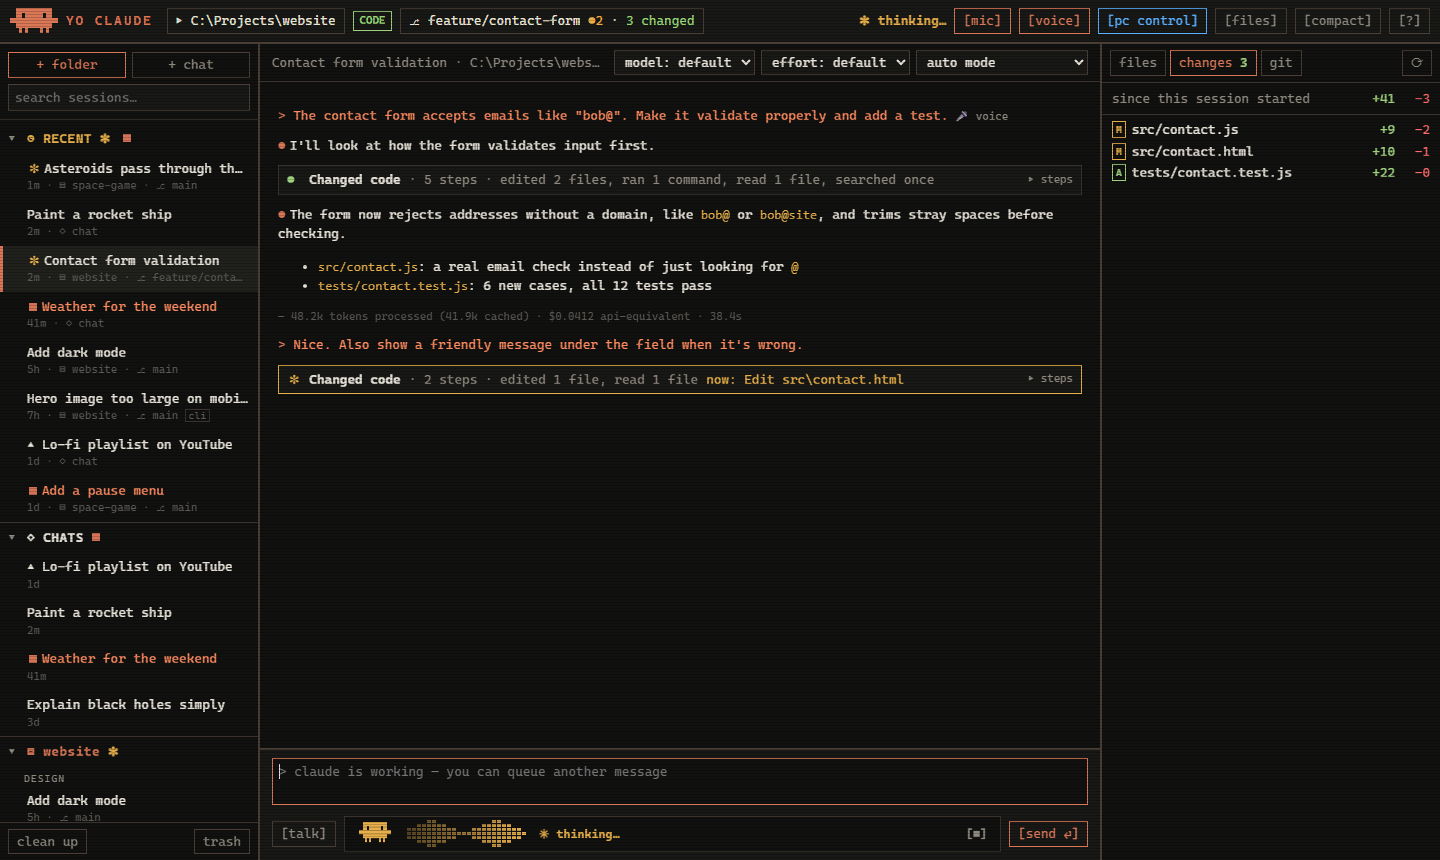
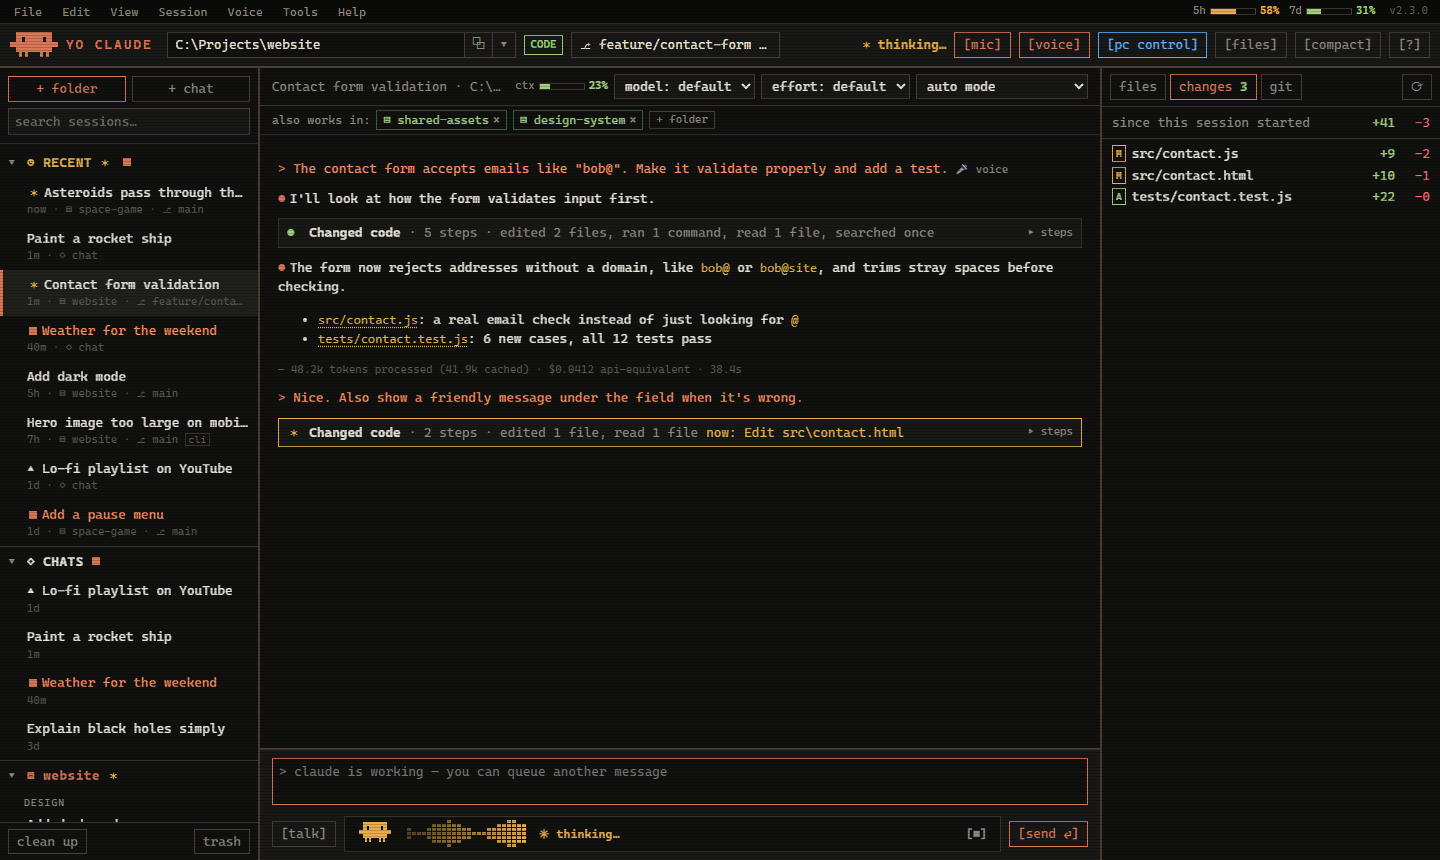
README: cover everything added since 2.0; new screenshots
Sections for talking, the window, folders and sessions, coding, files and
video, and context and usage limits. Screenshots retaken from the demo with
made-up content, plus new ones of the video player and the context view.
Also stops the header wrapping when the window is narrower.

diff --git a/ui/app.css b/ui/app.css
@@ -38,7 +38,7 @@ select:focus, input:focus, textarea:focus { border-color: var(--orange); }
 .menu div .kbd { float: right; color: var(--faint); margin-left: 24px; }
 .menu div .chk { display: inline-block; width: 1.3em; color: var(--orange); }
 .menu div.disabled { color: var(--faint); cursor: default; } .menu div.disabled:hover { background: none; color: var(--faint); }
-#folderBox { display: flex; align-items: stretch; border: 1px solid var(--line2); min-width: 220px; max-width: 520px; flex: 0 1 520px; }
+#folderBox { display: flex; align-items: stretch; border: 1px solid var(--line2); min-width: 160px; max-width: 520px; flex: 0 1 520px; }
 #folderBox:focus-within { border-color: var(--orange); }
 #folderPath { flex: 1; min-width: 0; border: 0; background: var(--bg); color: var(--text); padding: 2px 8px; }
 #folderBox button { border: 0; border-left: 1px solid var(--line2); padding: 0 7px; }
@@ -59,7 +59,9 @@ pre:hover .codecopy { opacity: 1; }
 #top { grid-column: 1 / -1; display: flex; align-items: center; gap: 8px; padding: 0 10px;
        border-bottom: 2px solid var(--line2); background: var(--bg2); }
 #logo { image-rendering: pixelated; }
-.brand { color: var(--orange); font-weight: bold; letter-spacing: 2px; margin-right: 6px; }
+.brand { color: var(--orange); font-weight: bold; letter-spacing: 2px; margin-right: 6px; white-space: nowrap; }
+#top > button, #top .state { white-space: nowrap; flex: none; }
+#branchPill { min-width: 0; overflow: hidden; text-overflow: ellipsis; flex: 0 1 auto; }
 .pill { border: 1px solid var(--line2); padding: 2px 8px; color: var(--text); white-space: nowrap;
         max-width: 420px; overflow: hidden; text-overflow: ellipsis; }
 .badge { padding: 1px 6px; font-size: 11px; font-weight: bold; border: 1px solid currentColor; }

diff --git a/README.md b/README.md
@@ -9,15 +9,18 @@ Unofficial fan project, not made or supported by Anthropic. Uses your own Claude
 ![Yo Claude coding: folders and sessions on the left, the conversation with folded tool steps, and the files changed in the session on the right](docs/screenshots/coding.png)
 
 **Coding by voice or text.** Folders and their sessions on the left (spinning while Claude works, a dot for replies you
-haven't read), Claude's steps folded into one-line summaries, and everything the session changed on the right.
+haven't read), Claude's steps folded into one-line summaries, and everything the session changed on the right. The
+meters at the top show how full this conversation is and how much of your plan's limits you've used.
 
 ![Yo Claude using the PC: the steps it took in Paint, the picture it made, and a live view of the screen while it works](docs/screenshots/pc-control.png)
 
 **PC control.** "Open Paint and draw me a rocket ship": every click is grouped into one summary you can expand, with
 what Claude saw, and a live view of the screen while it works.
 
-| The compact bar | Cleaning up old conversations |
+| Pictures and video in the chat | What's using the context window |
 |---|---|
+| ![A video Claude made, playing in the chat, with its menu open](docs/screenshots/video.png) | ![The context window breakdown](docs/screenshots/context.png) |
+| **The compact bar** | **Cleaning up old conversations** |
 | ![The compact bar while Yo Claude speaks a reply](docs/screenshots/compact-bar.png) | ![A checklist of stale conversations to move to the trash](docs/screenshots/clean-up.png) |
 
 ![The welcome tour](docs/screenshots/welcome.png)
@@ -51,32 +54,70 @@ The first time, a welcome tour explains everything and checks how well it hears 
 
 ## Using it
 
-- **Say "yo claude"**, wait for "how can I help?", then speak. Pause briefly when you're done.
+### Talking
+
+- **Say "yo claude"**, wait for "how can I help?", then speak. Pause briefly when you're done. You can also say it in
+  one breath: "yo claude, what's the weather tomorrow?"
 - **Follow-ups**: after it answers it listens for about 6 seconds, so you can carry on without the wake word.
   "Never mind" ends it.
 - **Voice commands**: "new session", "new chat", "switch to *session name*".
+- **Approvals**: when Claude asks permission, say "yes, go ahead" or "no", or click.
+- **Stop** anything: `[■]`, Esc, a right-click on the bar, or the tray menu.
+- **Mishearing you?** Turn on **Voice → More accurate speech recognition**. It uses a bigger speech model: slower,
+  and a one-off download of about 1.5 GB.
+
+### The window
+
 - **Menus** along the top (File, Edit, View, Session, Voice, Tools, Help) have every setting, with keyboard shortcuts
-  (Help → Keyboard shortcuts). Copy anything in the chat: select it and press Ctrl+C, use a message's **⧉ copy** button,
-  or right-click for Copy, Copy message, Copy code and Copy whole conversation. The folder path at the top can be
-  copied, or paste/type a folder there and press Enter to work in it.
-- **Background tasks** Claude starts (long renders, builds) show in the conversation with a timer and a stop button,
-  and as a purple spinner in the tree. They keep running if Yo Claude restarts; Claude reports back when they finish.
-- **Type** instead, in the window. `@` attaches a file, and you can paste screenshots. Click any attachment, picture,
-  video or PDF in the conversation to view it; right-click for open, open with…, show in Explorer and copy path.
-- **Folders and sessions**: `+ folder` adds a folder to the tree on the left; hover it and click `+` for a new session
-  there. Sessions in different folders can work at the same time. **Recent** at the top lists the latest from every
-  folder, and folders with recent activity open by themselves. Right-click a session to rename, pin, group, fork or
-  delete it; **clean up** suggests old and empty conversations to move to the (restorable) trash.
-- **Coding**: in a folder session, the right-hand panel shows the files, everything changed in the session (with
-  diffs and per-file revert) and your git branch. When Claude asks permission, say "yes, go ahead" or "no", or click.
-  The mode dropdown sets how much it asks: **auto** (Claude Code's safety check decides; the default), *ask before
-  changes*, *auto-accept edits* or *plan*.
-- **Model and effort** are picked per session (top of the conversation).
+  (Help → Keyboard shortcuts). Hover anything for a short explanation.
+- **Type** instead of talking: `@` attaches a file, and you can paste screenshots.
+- **Copy anything**: select it and press Ctrl+C, use a message's **⧉ copy** button, or right-click for Copy, Copy
+  message, Copy code and Copy whole conversation.
+- **Model and effort** are picked per session, at the top of the conversation.
 - **Compact mode**: close or minimise the window and a small bar stays at the bottom of the screen. `[⤢]` opens the
   window again.
-- **Stop** anything: `[■]`, Esc, a right-click on the bar, or the tray menu.
 - **Tray icon** (bottom right): the wake word, voice replies, PC control, the floating bar, launch with Windows,
   training mode, updates, and Quit.
+
+### Folders and sessions
+
+- `+ folder` adds a folder to the tree on the left; hover it and click `+` for a new session there. Or paste or type a
+  folder path into the box at the top and press Enter. Sessions in different folders can work at the same time.
+- **Recent** at the top lists the latest sessions from every folder, and folders with recent activity open by
+  themselves. Your Claude Code sessions for the same folders show up too (marked `cli`).
+- **More than one folder**: a session can also read and write other folders. Use `+ folder` in the row under the
+  session title; remove one with its `×`.
+- Right-click a session to rename, pin, group, fork or delete it. **clean up** suggests old and empty conversations to
+  move to the trash, and **trash** brings them back.
+
+### Coding
+
+- In a folder session, the right-hand panel shows the files, everything changed in the session (with diffs and
+  per-file revert) and your git branch.
+- The mode dropdown sets how much Claude asks first: **auto** (Claude Code's safety check decides; always the
+  default), *ask before changes*, *auto-accept edits* or *plan*. A change applies to that session only.
+- **Background tasks** Claude starts (long renders, builds) show in the conversation with a timer and a stop button,
+  and as a purple spinner in the tree. They keep running if Yo Claude restarts, and Claude reports back when they
+  finish.
+
+### Files, pictures and video
+
+- File and folder paths in Claude's replies are links: click to preview, right-click for open, **open with…** (the
+  apps Windows has for that file type), show in Explorer and copy path.
+- Pictures, videos, audio and PDFs a reply mentions appear under it. Click one to view it bigger, or **pop out** to
+  get it in its own resizable window.
+- Videos play in the chat. The button at the top right plays them **picture in picture**, on top of other windows,
+  and **⋮** (or a right-click) has full screen, speed, loop and more.
+- If something can't be opened (moved, deleted, or no app for that kind of file), it tells you why.
+
+### Context and usage limits
+
+- **ctx** next to the model picker shows how full this conversation's context window is. Click it to see what's
+  using it (system prompt, tools, PC control, memory files, your messages, tool results), with tips to free some up,
+  **compact this conversation**, or start a **new session**.
+- **5h** and **7d** at the top right are your Claude plan's 5-hour and weekly limits, shared with Claude Code and the
+  Claude app. Hover them for when they reset, or click for details. They update with each reply.
+- The bars turn amber past 50% and red past 80%.
 
 ## PC control
 
@@ -84,10 +125,11 @@ It's **on** after install. When you ask ("open YouTube and play lo-fi music"), C
 your mouse and keyboard, as you, with your logins.
 
 - **Ctrl+Alt+X** stops it instantly. Slamming the mouse into a screen corner also aborts.
-- Switch it off with `[pc control]` at the top of the window or in the tray menu.
+- Switch it off with `[pc control]` at the top of the window, in the Voice menu, or in the tray menu.
 - It asks before anything hard to undo (sending, deleting, buying), but don't leave it unattended on anything
   sensitive.
-- It adds about 11k tokens to every question (screenshots add more), so turn it off when you don't need it.
+- Its tools take about 11k tokens of every conversation (screenshots add more; the **ctx** meter shows it), so turn
+  it off when you don't need it.
 - Everything it does is logged in `%USERPROFILE%\.yoclaude\pc-control\screen-control.log`.
 
 ## Privacy and cost
@@ -96,8 +138,8 @@ your mouse and keyboard, as you, with your logins.
   to Claude.
 - Replies are read aloud by Microsoft's online neural voice, so the reply text goes to Microsoft.
 - Questions count against your Claude plan like Claude Code messages. A chat question is about 4k tokens; a coding
-  session carries more (the full Claude Code toolset), mostly cached. Each reply in the window shows its token count.
-  Listening for the wake word costs nothing.
+  session carries more (the full Claude Code toolset), mostly cached. Each reply shows its token count, and the
+  meters show the totals. Listening for the wake word costs nothing.
 
 ## Updating
 
@@ -114,5 +156,7 @@ Your conversations stay in Claude Code.
 
 - **It doesn't hear me**: tray → *Training mode* checks your mic level and how it hears "yo claude", and can learn
   how you say it.
+- **It mishears what I say**: Voice → *More accurate speech recognition*.
 - **No answer**: run `claude` in a terminal once to check Claude Code works and you're signed in.
+- **"Limit reached"**: the **5h** / **7d** meters show which limit and when it resets.
 - **Something else**: tray → *Open log*, and send the log to whoever shared this with you.
